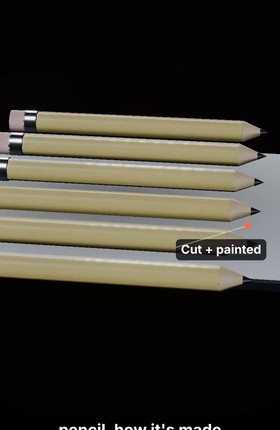
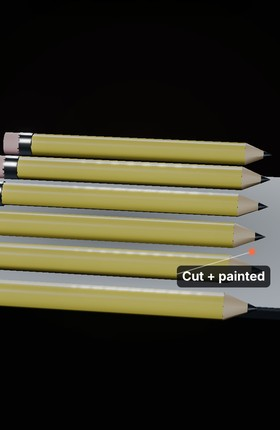
made12 released (Type it, get it #12)
Claude-Session: https://claude.ai/code/session_011mgQaKe9KwV1RxFx2jkPUr

diff --git a/hf/videos/made12/scenes.js b/hf/videos/made12/scenes.js
@@ -90,8 +90,8 @@ function labs(k,list){ return list.map(([i,o,a])=>[document.getElementById('l'+k
   const hop=new THREE.Mesh(new THREE.CylinderGeometry(0.45,0.12,0.7,32,1,true),new THREE.MeshPhysicalMaterial({color:0xb7c0ca,metalness:1,roughness:.3,side:THREE.DoubleSide})); hop.position.set(-1.9,BY+0.6,0); sc.add(hop);
   const NG=90, gran=new THREE.InstancedMesh(new THREE.SphereGeometry(0.03,8,6),new THREE.MeshStandardMaterial({color:RED,roughness:.4}),NG); sc.add(gran); const R=rnd(7), gs=[]; for(let i=0;i<NG;i++) gs.push([R(),R()*0.5-0.25,R()*0.5-0.25]);
   // mould: two steel blocks, right half slides away
-  const mouldM=new THREE.MeshPhysicalMaterial({color:0x8d969f,metalness:1,roughness:.28}); const mL=new THREE.Mesh(new THREE.BoxGeometry(0.5,1.1,1.0),mouldM); mL.position.set(0.45,BY,0); sc.add(mL);
-  const mR=new THREE.Mesh(new THREE.BoxGeometry(0.5,1.1,1.0),new THREE.MeshPhysicalMaterial({color:0x8d969f,metalness:1,roughness:.28,transparent:true,opacity:.55,depthWrite:false})); sc.add(mR);
+  const mouldM=new THREE.MeshPhysicalMaterial({color:0xb7c0ca,metalness:.85,roughness:.35,emissive:0x1c2128}); mouldM.userData.keepEnv=true; const mL=new THREE.Mesh(new THREE.BoxGeometry(0.5,1.1,1.0),mouldM); mL.position.set(0.45,BY,0); sc.add(mL);
+  const mR=new THREE.Mesh(new THREE.BoxGeometry(0.5,1.1,1.0),new THREE.MeshPhysicalMaterial({color:0xb7c0ca,metalness:.85,roughness:.35,emissive:0x1c2128,transparent:true,opacity:.6,depthWrite:false})); mR.material.userData.keepEnv=true; sc.add(mR);
   const nozzle=new THREE.Mesh(new THREE.ConeGeometry(0.12,0.3,24),steel); nozzle.rotation.z=-Math.PI/2; nozzle.position.set(0.12,BY,0); sc.add(nozzle);
   // brick 2x4 with studs (no logo)
   function brick(){ const g=new THREE.Group(); const b=new THREE.Mesh(rbox(0.64,0.38,0.32,0.02),redM); b.rotation.y=Math.PI/2; b.rotation.x=0; g.add(b);
@@ -118,7 +118,7 @@ function labs(k,list){ return list.map(([i,o,a])=>[document.getElementById('l'+k
     const open=easeIO(cl((lt-1.55)/0.35)); mR.position.set(1.27+0.9*open,BY,0);
     const pop=cl((lt-1.85)/0.55); const py=BY-(BY-0.57)*easeIO(pop)+0.35*Math.sin(pop*Math.PI); B0.position.set(0.86+0.09*easeIO(pop),py,0.0+0.6*easeIO(pop)); B0.rotation.x=pop*Math.PI*2;
     const mv=easeIO(cl((lt-2.3)/0.4)); old.forEach((b,i)=>{ b.position.z=0.6+(i+1)*0.9+0.9*mv; }); if(pop>=1) B0.position.z=0.6+0.9*mv;
-    const z=easeIO(cl(lt/2.6)); const ca=0.75-0.25*z; const rad=11.5-1.2*z; cam.position.set(Math.sin(ca)*rad-0.4,4.2-0.6*z,Math.cos(ca)*rad); cam.lookAt(-0.4+0.3*z,0.9-0.1*z,0.6); P.c.render();
+    const z=easeIO(cl(lt/2.6)); const ca=0.75-0.25*z; const rad=11.5-1.2*z; cam.position.set(Math.sin(ca)*rad-0.4,4.2-0.6*z,Math.cos(ca)*rad); cam.lookAt(-0.1+0.3*z,0.9-0.1*z,0.6); P.c.render();
     layoutLabels(labs(1,[[0,aG,cl((lt-0.1)/0.2)],[1,aB,cl((lt-0.4)/0.2)],[2,aM,cl((lt-0.85)/0.2)],[3,aO,cl((lt-1.95)/0.2)]]),cam,660,130);
     caption(1,lt0); };
   sc.traverse(o=>{ const ms=o.material?(Array.isArray(o.material)?o.material:[o.material]):[]; ms.forEach(m=>{ if(m.envMapIntensity!==undefined&&!m.userData.keepEnv) m.envMapIntensity=0.4; }); });
